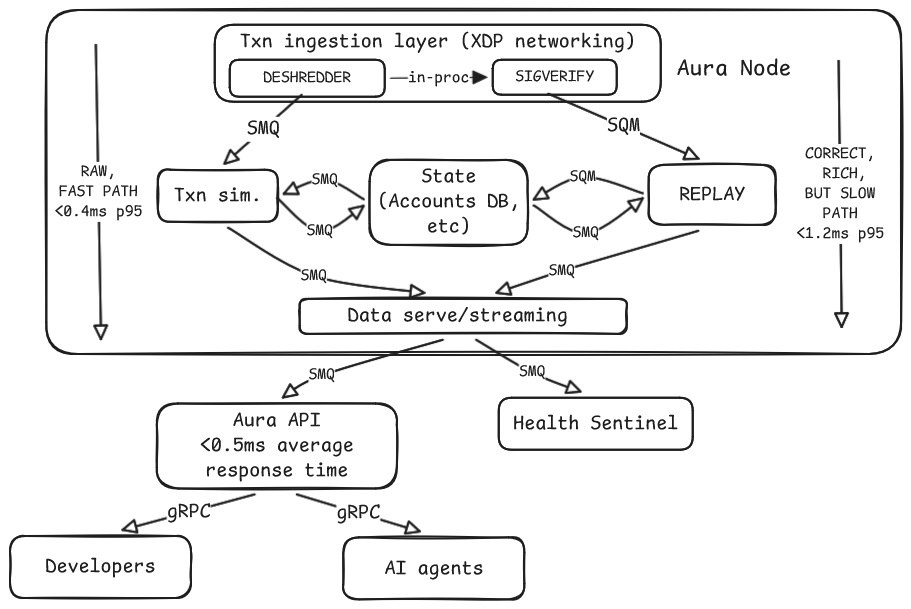
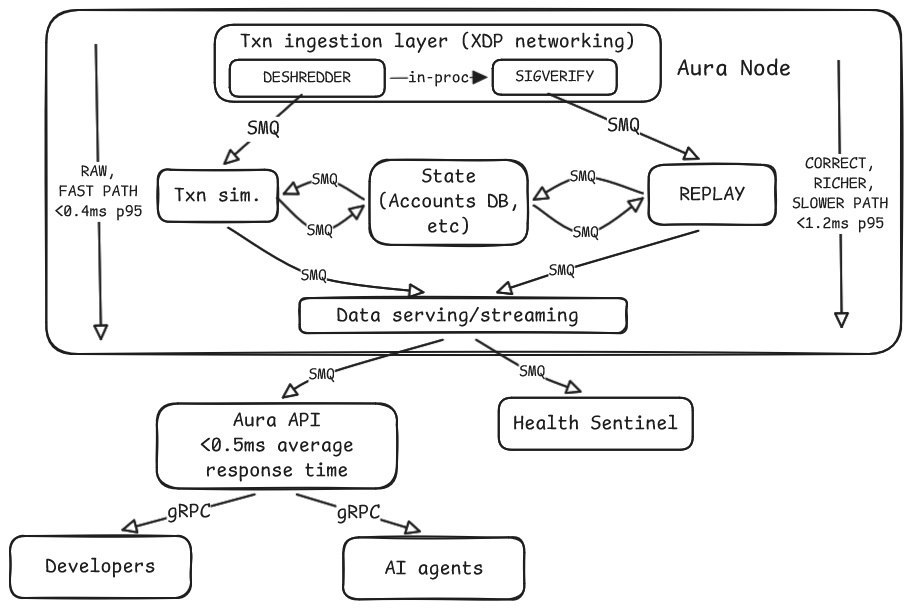
upd readme

diff --git a/README.md b/README.md
@@ -9,7 +9,16 @@ Aura is a low-latency Solana trading platform that gives bots, AI agents, and po
 The Telegram bot is the fastest way to start using Aura. The API is for builders, power users, and automation: it exposes the same product surface as the Telegram UI, but with finer and richer control.
 
 ## Why Aura Is Fast
-![Architecture diagram](./assets/arch.png)
+![Aura low-latency Solana trading architecture with XDP transaction ingestion, deshredding, signature verification, transaction simulation, replay, state, streaming, health checks, and gRPC API access](./assets/arch.png)
+
+Aura uses two data paths inside the node:
+
+- A raw fast path for low-latency transaction simulation and early data delivery.
+- A richer replay-backed path for more complete and correct state.
+- Shared-memory queues connect ingestion, simulation, replay, state, streaming, health checks, and the public API with minimal overhead.
+- The Aura API exposes this data over gRPC to developers and AI agents.
+
+Latency numbers are measured inside Aura infrastructure and depend on region, load, requested endpoint, and client location.
 
 ## What the API gives you
 